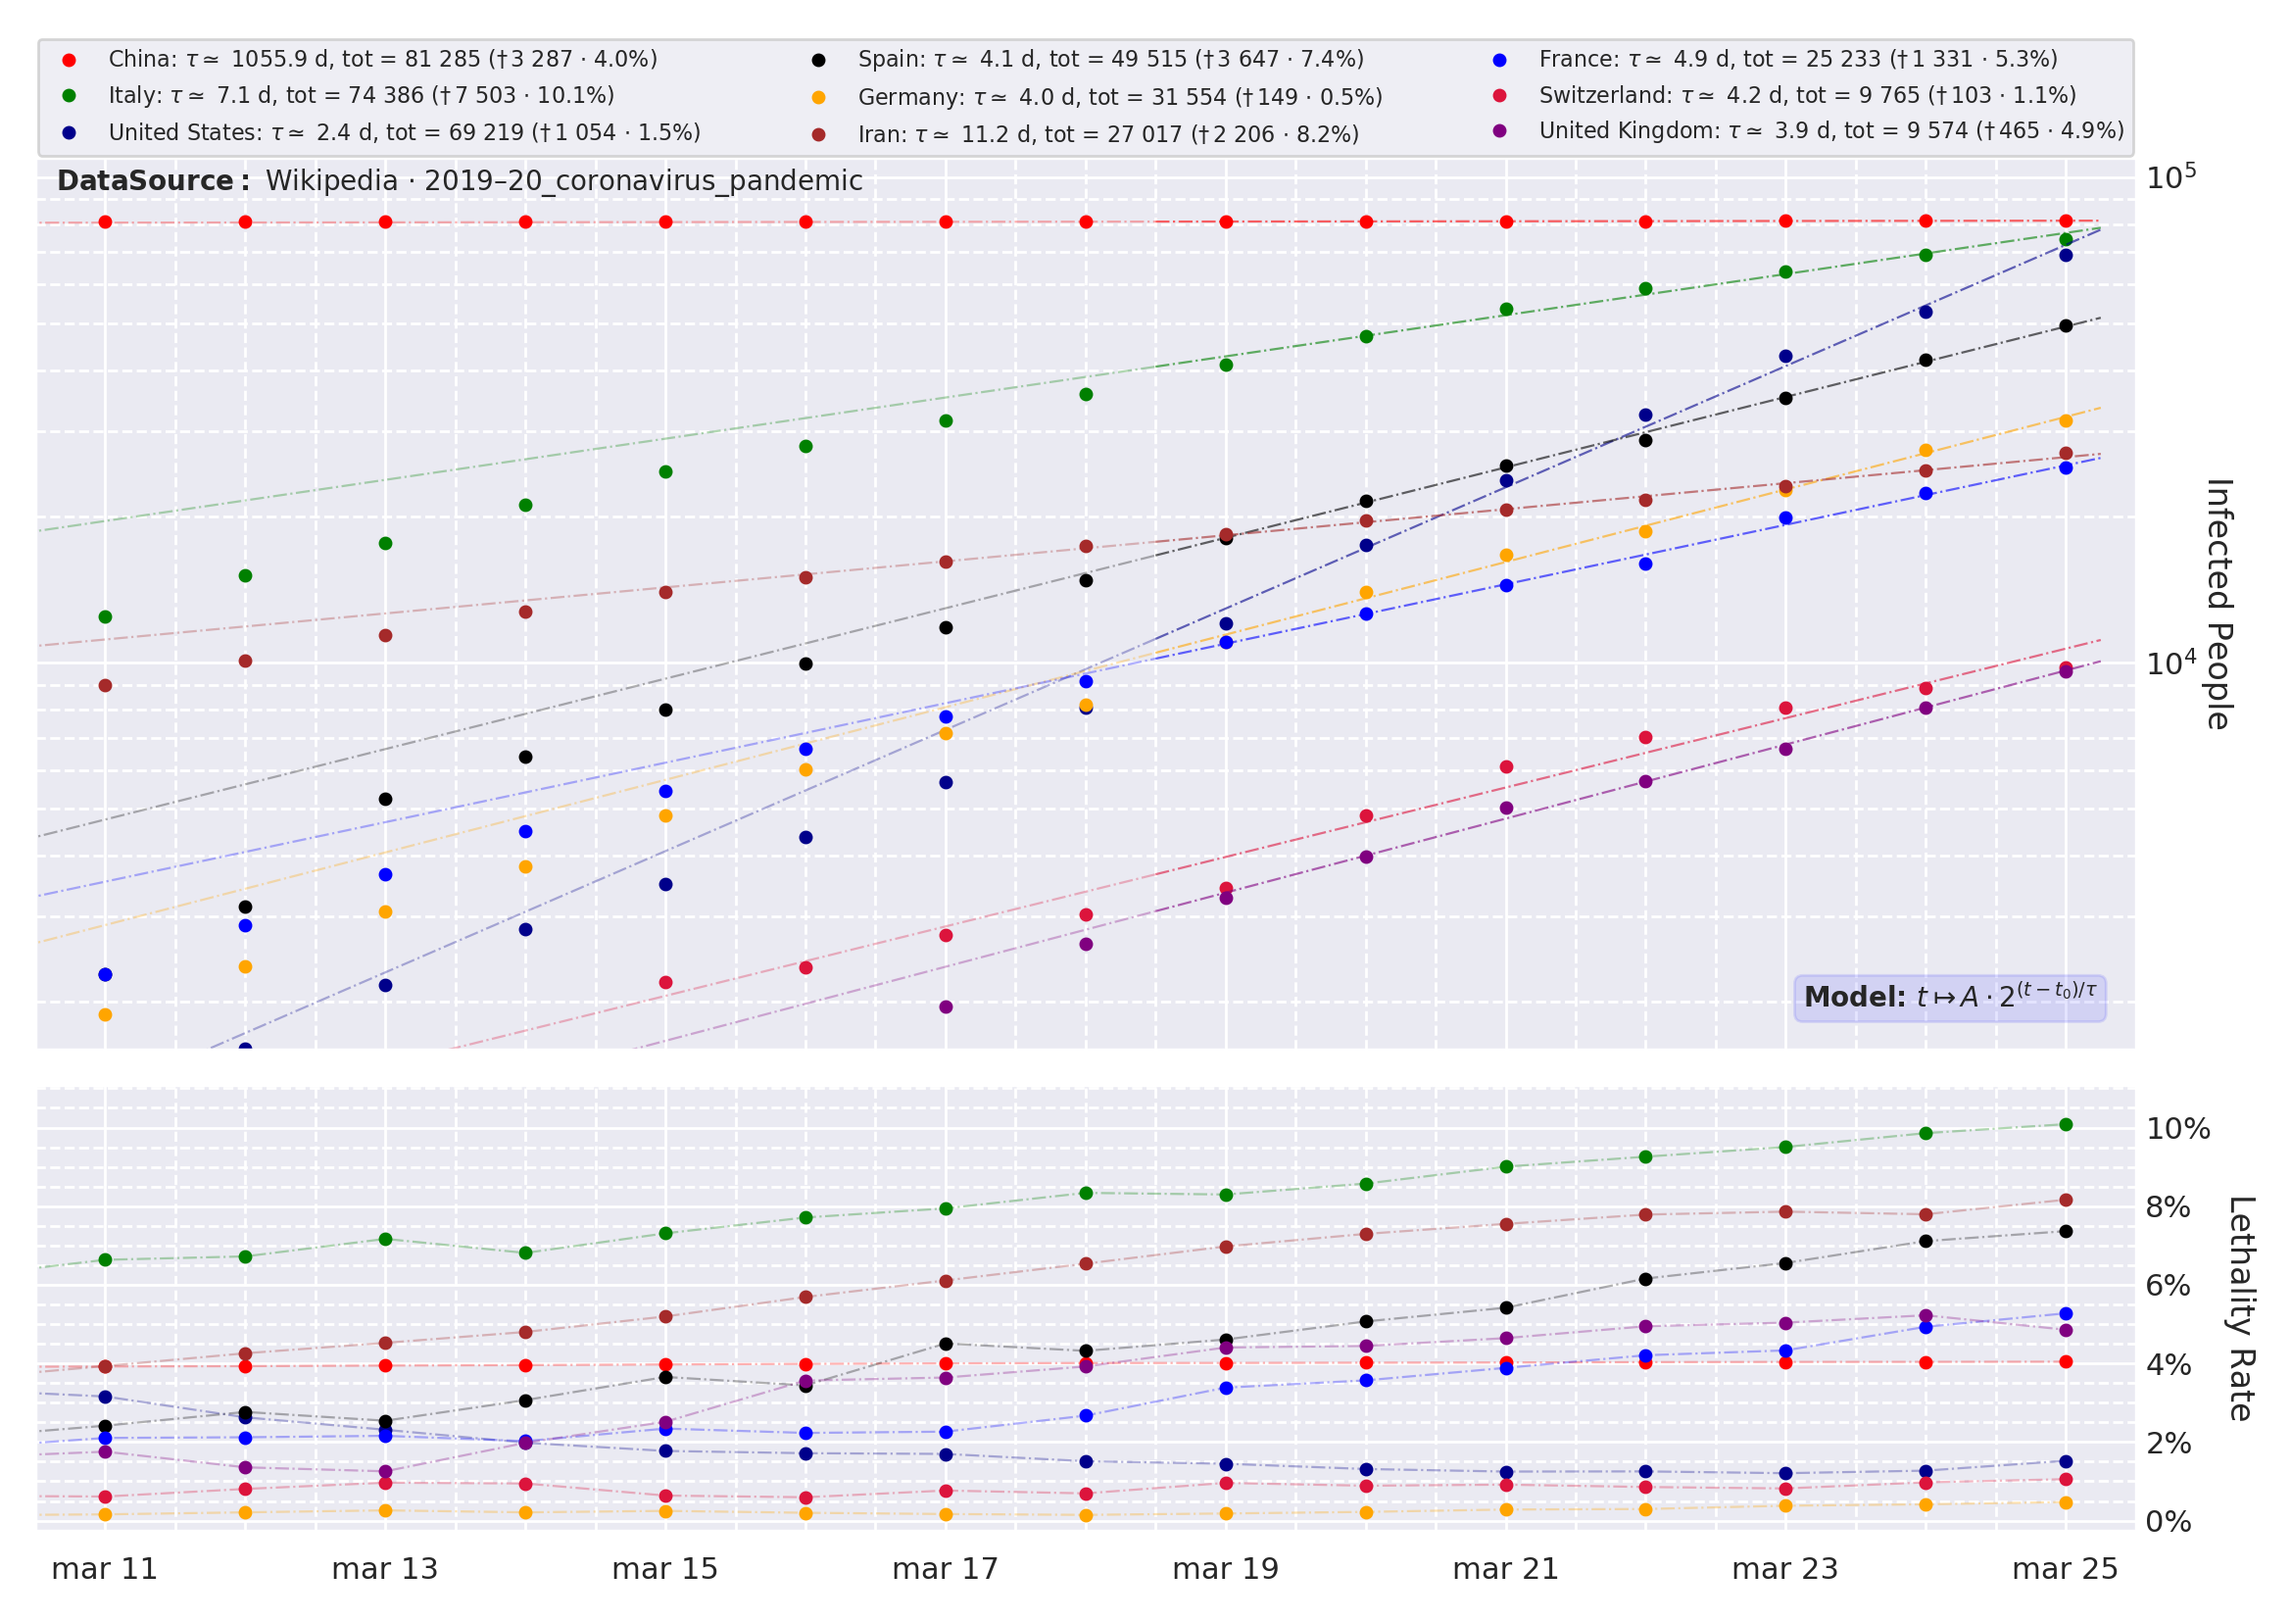
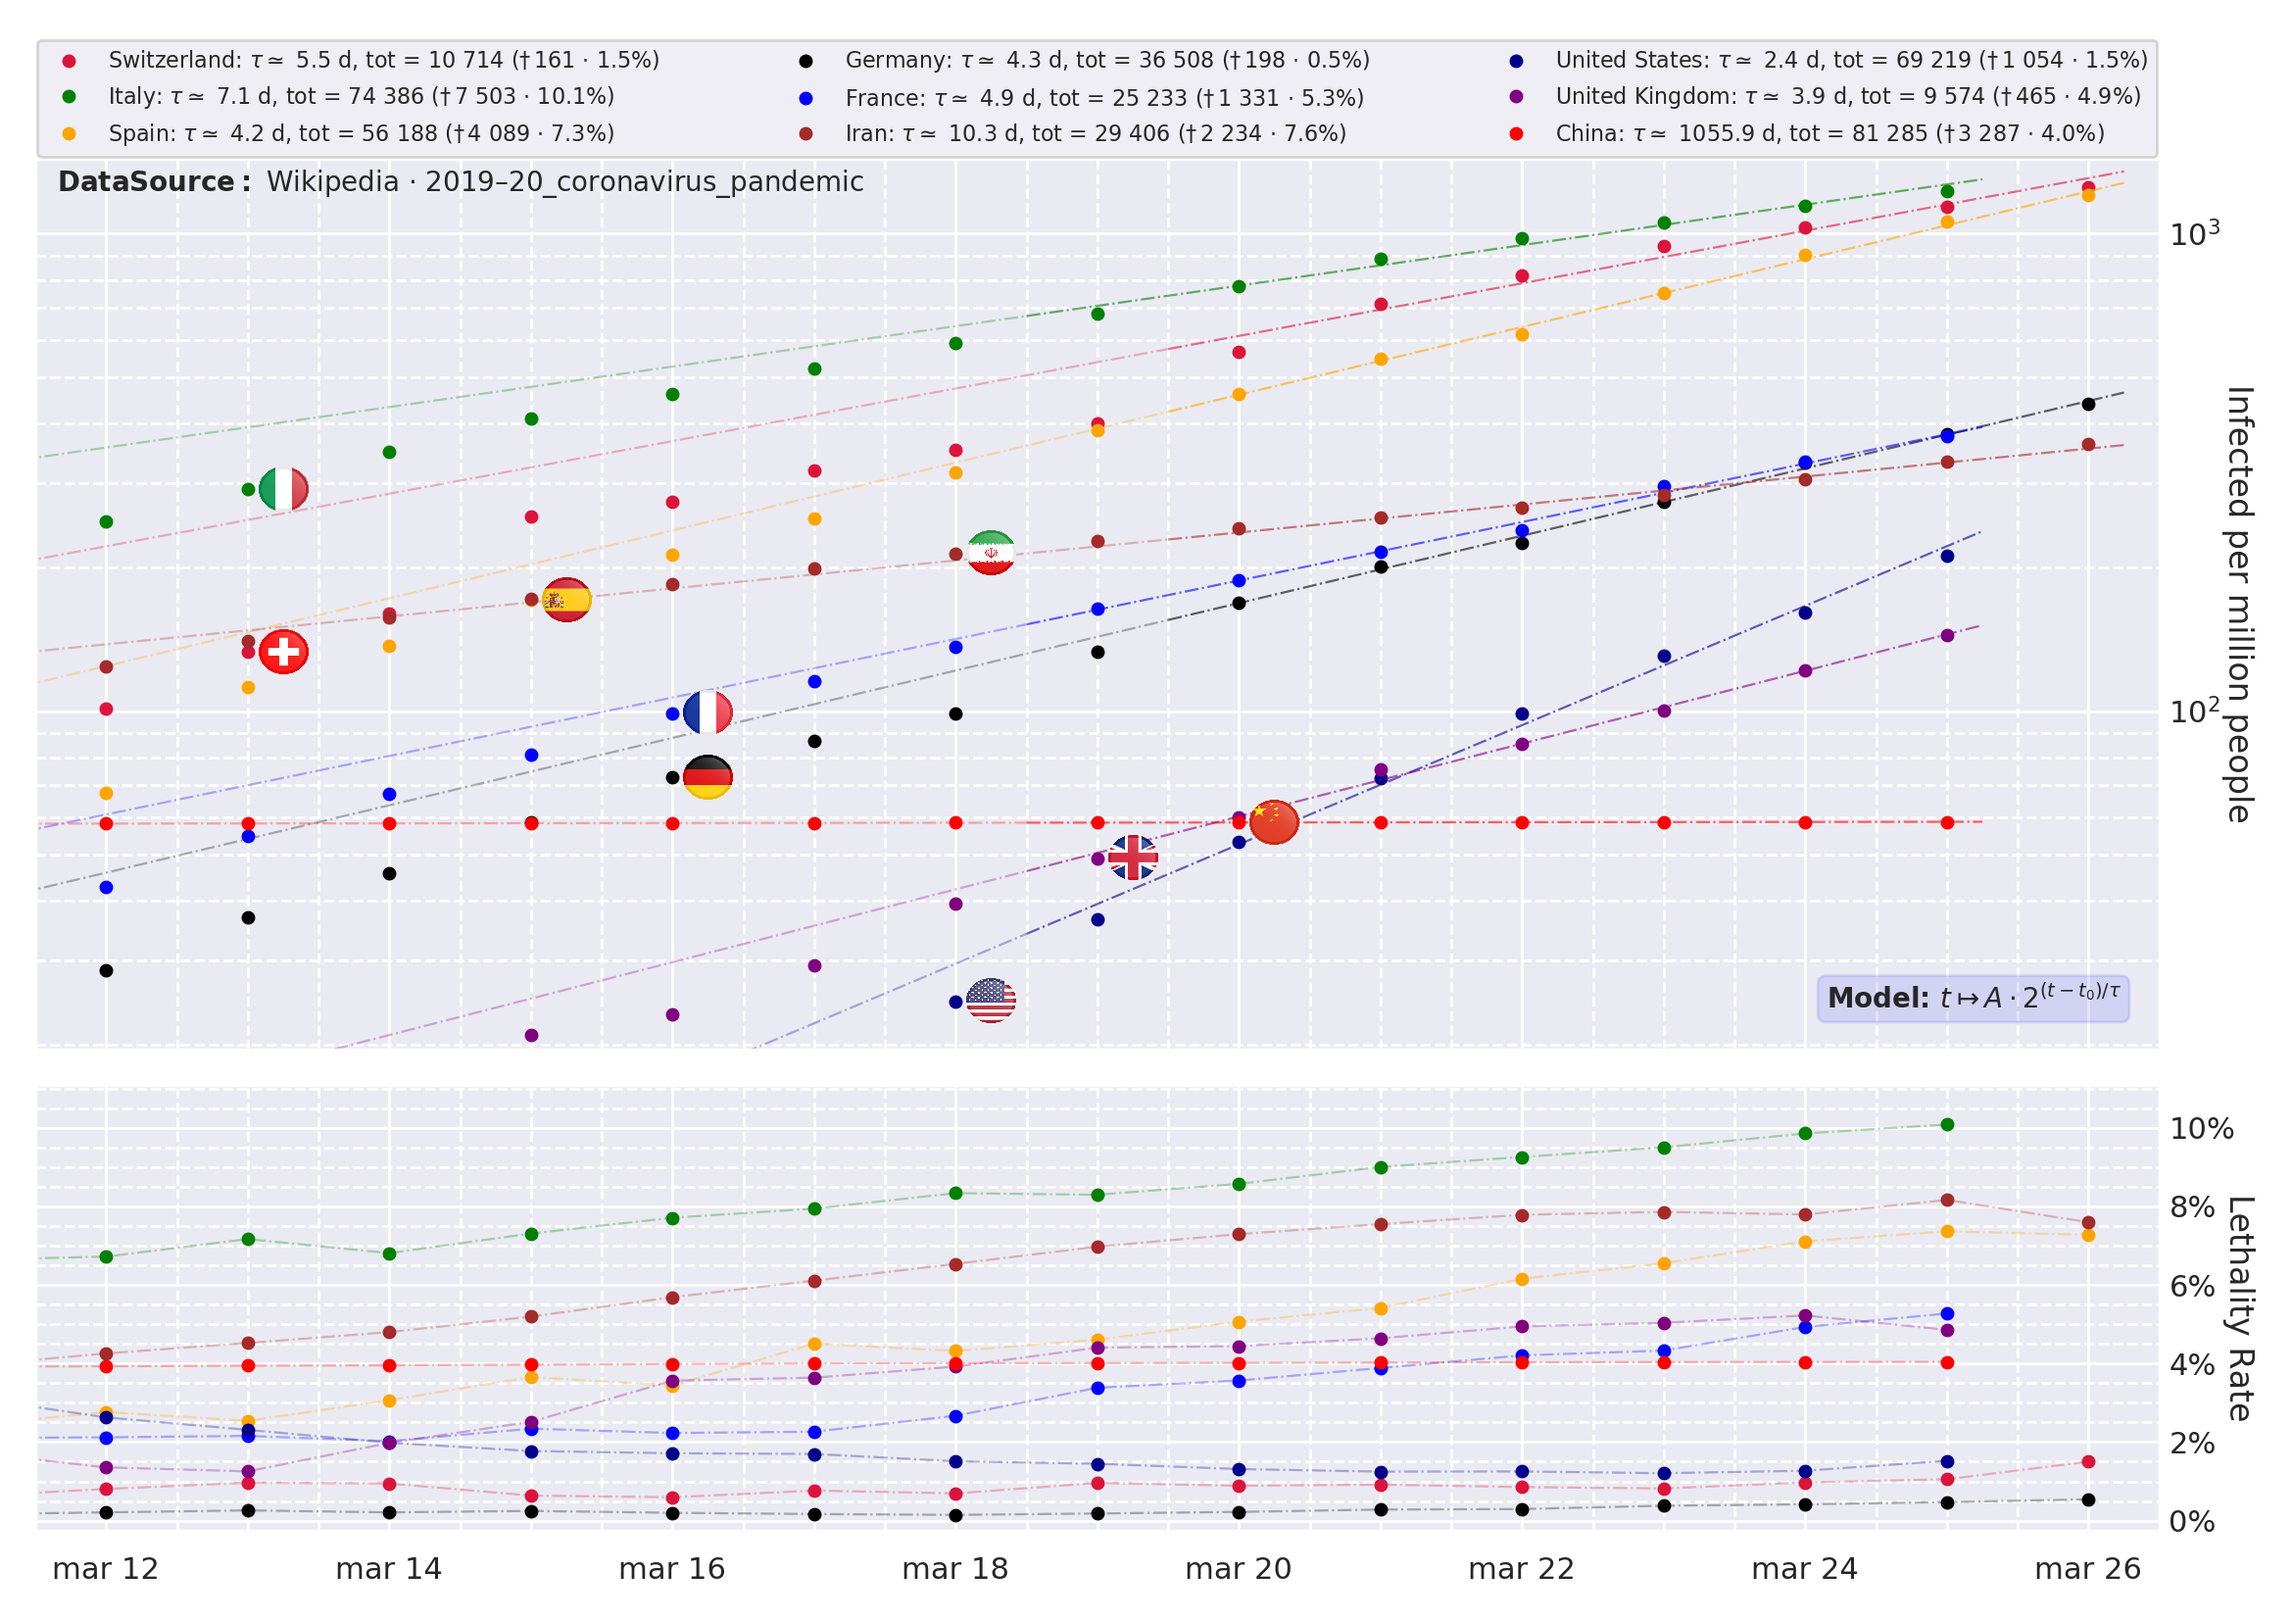
minor commit

diff --git a/Coronavirus/coronavirus.py b/Coronavirus/coronavirus.py
@@ -2,6 +2,7 @@ import pandas as pd
 import matplotlib.pyplot as plt
 import matplotlib.dates as mdates
 import matplotlib.ticker as ticker
+import matplotlib.image as image
 import numpy as np
 from sklearn.linear_model import LinearRegression
 from pandas.plotting import register_matplotlib_converters
@@ -14,9 +15,12 @@ def spacing(n):
     return "{:,d}".format(int(n)).replace(",", " ")
 
 
+flags = True
+
 country_ds = pd.DataFrame(
-    columns=["name", "population", "filename", "date_format", "color",
-    "tot_count", "tot_death", "lethality", "last_update"]
+    columns=["name", "population", "filename", "flagname", "date_format",
+             "color", "tot_count", "density", "tot_death", "lethality",
+             "last_update"]
 )
 country_ds["name"] = [
     "United Kingdom", "Iran", "Italy", "Germany", "France", "China", "Spain",
@@ -30,12 +34,16 @@ country_ds["filename"] = [
     "UnitedKingdom.dat", "Iran.dat", "Italy.dat", "Germany.dat", "France.dat",
     "China.dat", "Spain.dat", "Switzerland.dat", "UnitedStates.dat"
 ]
+country_ds["flagname"] = [
+    "gb.png", "ir.png", "it.png", "de.png", "fr.png",
+    "cn.png", "es.png", "ch.png", "us.png"
+]
 country_ds["date_format"] = [
     "%Y-%m-%d", None, "%d-%m-%Y", "%d.%m.%Y", "%d.%m.%Y", None, "%Y-%m-%d",
     "%Y-%m-%d", "%b %d %Y"
 ]
 country_ds["color"] = [
-    "purple", "brown", "green", "orange", "blue", "red", "black", "crimson",
+    "purple", "brown", "green", "black", "blue", "red", "orange", "crimson",
     "darkblue"
 ]
 country_ds.set_index("name", inplace=True)
@@ -52,10 +60,11 @@ for name in country_ds.index:
 
 country_ds["population"] = country_ds["population"].astype(float)
 country_ds["tot_count"] = country_ds["tot_count"].astype(int)
+country_ds["density"] = country_ds["tot_count"]/country_ds["population"]
 country_ds["tot_death"] = country_ds["tot_death"].astype(int)
 country_ds["lethality"] = country_ds["tot_death"]/country_ds["tot_count"]*100
 country_ds["last_update"] = country_ds["tot_death"].astype("datetime64[ns]")
-country_ds.sort_values(by=["tot_count"], ascending=False, inplace=True)
+country_ds.sort_values(by=["density"], ascending=False, inplace=True)
 
 plt.rcParams.update({"font.size": 12})
 
@@ -71,11 +80,13 @@ for name in country_ds.index:
         kwargs["date_parser"] = lambda x: pd.to_datetime(
                 x, format=country_ds["date_format"].loc[name])
     df = pd.read_csv("datasets/" + country_ds["filename"].loc[name], **kwargs)
+    df["density"] = df["count"]/country_ds["population"].loc[name]
+    df["lethality"] = df["death"]/df["count"]*100
 
     t = mdates.date2num(df.index)
     country_ds.loc[name, "last_update"] = df.index[-1]
 
-    model.fit(t[-7:, np.newaxis], np.log2(df["count"].values[-7:]))
+    model.fit(t[-7:, np.newaxis], np.log2(df["density"].values[-7:]))
 
     t1 = np.linspace(t[-7:].min() - 0.5, t.max() + 0.25, 100)
     t2 = np.linspace(t[-1] - 15, t[-7:].min() - 0.5, 1000)
@@ -90,7 +101,8 @@ for name in country_ds.index:
         spacing(country_ds["tot_death"].loc[name]),
         country_ds["lethality"].loc[name]
     )
-    ax1.plot(df.index, df["count"].values, ".",
+
+    ax1.plot(df.index, df["density"].values, ".",
              color=country_ds["color"].loc[name], label=label, markersize=8)
     ax1.plot(d1, 2**(model.predict(t1[:, np.newaxis])), "-.", alpha=0.6,
              color=country_ds["color"].loc[name], linewidth=0.8)
@@ -98,9 +110,9 @@ for name in country_ds.index:
              color=country_ds["color"].loc[name], linewidth=0.8)
 
     df["death"].fillna(0, inplace=True)
-    ax2.plot(df.index, (100*df["death"]/df["count"]).values, ".",
+    ax2.plot(df.index, df["lethality"].values, ".",
              color=country_ds["color"].loc[name], markersize=8)
-    ax2.plot(df.index, (100*df["death"]/df["count"]).values, "-.",
+    ax2.plot(df.index, df["lethality"].values, "-.",
              color=country_ds["color"].loc[name], alpha=0.3, linewidth=0.8)
 
 ax1.text(0.01, 0.99, r"$\bf{Data Source:}$ " +
@@ -123,11 +135,11 @@ ax1.xaxis.set_major_locator(mdates.DayLocator(interval=2))
 ax1.xaxis.set_minor_locator(mdates.DayLocator())
 
 ax1.set_yscale("log")
-ax1.set_ylim(bottom=country_ds["tot_count"].min()/6)
-ax1.set_ylim(top=country_ds["tot_count"].max()*1.35)
+ax1.set_ylim(bottom=country_ds["density"].min()/3)
+ax1.set_ylim(top=country_ds["density"].max()*1.15)
 ax1.yaxis.tick_right()
 ax1.tick_params(axis="y", which="both", length=0)
-ax1.set_ylabel("Infected People", rotation=270, labelpad=13)
+ax1.set_ylabel("Infected per million people", rotation=270, labelpad=12)
 ax1.yaxis.set_label_position("right")
 
 ax2.yaxis.set_major_locator(ticker.MultipleLocator(2))
@@ -136,7 +148,7 @@ ax2.yaxis.set_major_formatter(
     ticker.FuncFormatter(lambda y, _: "{:.0%}".format(y/100))
 )
 ax2.set_ylim((-0.25, country_ds["lethality"].max()*1.1))
-ax2.set_ylabel("Lethality Rate", rotation=270, labelpad=16)
+ax2.set_ylabel("Lethality Rate", rotation=270, labelpad=7)
 ax2.minorticks_on()
 ax2.yaxis.tick_right()
 ax2.tick_params(axis="y", which="both", length=0)
@@ -148,6 +160,40 @@ ax1.grid(b=True, which="major", linestyle="-")
 ax1.grid(b=True, which="minor", linestyle="--")
 ax2.grid(b=True, which="major", linestyle="-")
 ax2.grid(b=True, which="minor", linestyle="--")
+
+if flags is True:
+    for idx, name in enumerate(country_ds.index):
+        if country_ds["flagname"].loc[name] is None:
+            continue
+
+        kwargs = {"delimiter": ";", "index_col": "data", "parse_dates": True}
+        if country_ds["date_format"].loc[name] is not None:
+            kwargs["date_parser"] = lambda x: pd.to_datetime(
+                    x, format=country_ds["date_format"].loc[name])
+        df = (pd.read_csv("datasets/" + country_ds["filename"]
+              .loc[name], **kwargs))
+        df["density"] = df["count"]/country_ds["population"].loc[name]
+
+        t = mdates.date2num(df.index)
+
+        # Flag coords are given in axes coords to avoid log scale distorsion
+        # https://matplotlib.org/tutorials/advanced/transforms_tutorial.html
+        flagCoord = ax1.transData.transform((
+            t[-14 + idx],
+            df["density"].values[-14 + idx]
+        ))
+        flagCoord = ax1.transAxes.inverted().transform(flagCoord)
+
+        figW, figH = ax1.get_figure().get_size_inches()
+        _, _, w, h = ax1.get_position().bounds
+        disp_ratio = figH*h/(figW*w)
+
+        im = image.imread("flags/" + country_ds["flagname"].loc[name])
+        ax1.imshow(im, aspect="auto", zorder=10, transform=ax1.transAxes,
+                   extent=(flagCoord[0] + 0.005,
+                           flagCoord[0] + 0.005 + 0.05*disp_ratio,
+                           flagCoord[1] - 0.025,
+                           flagCoord[1] + 0.025))
 
 plt.tight_layout()
 plt.savefig("coronavirus.png", dpi=200)
